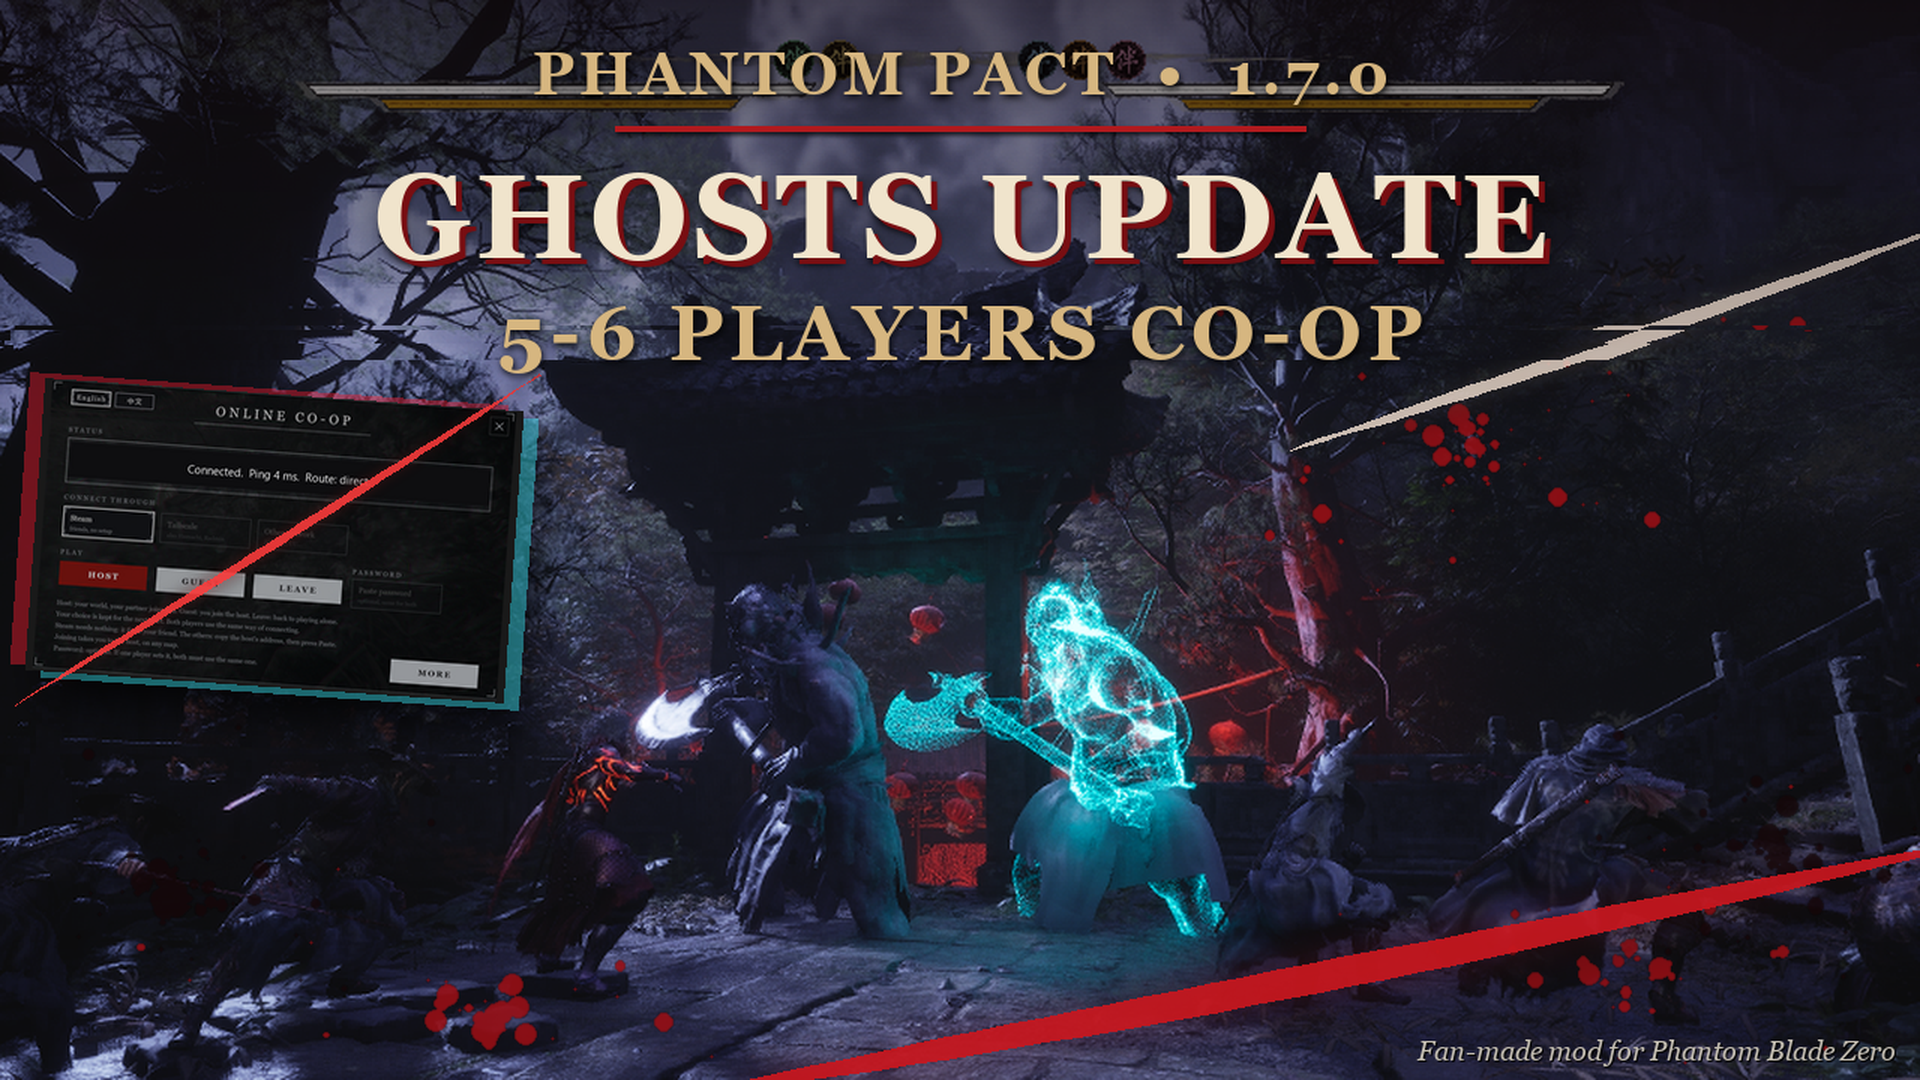
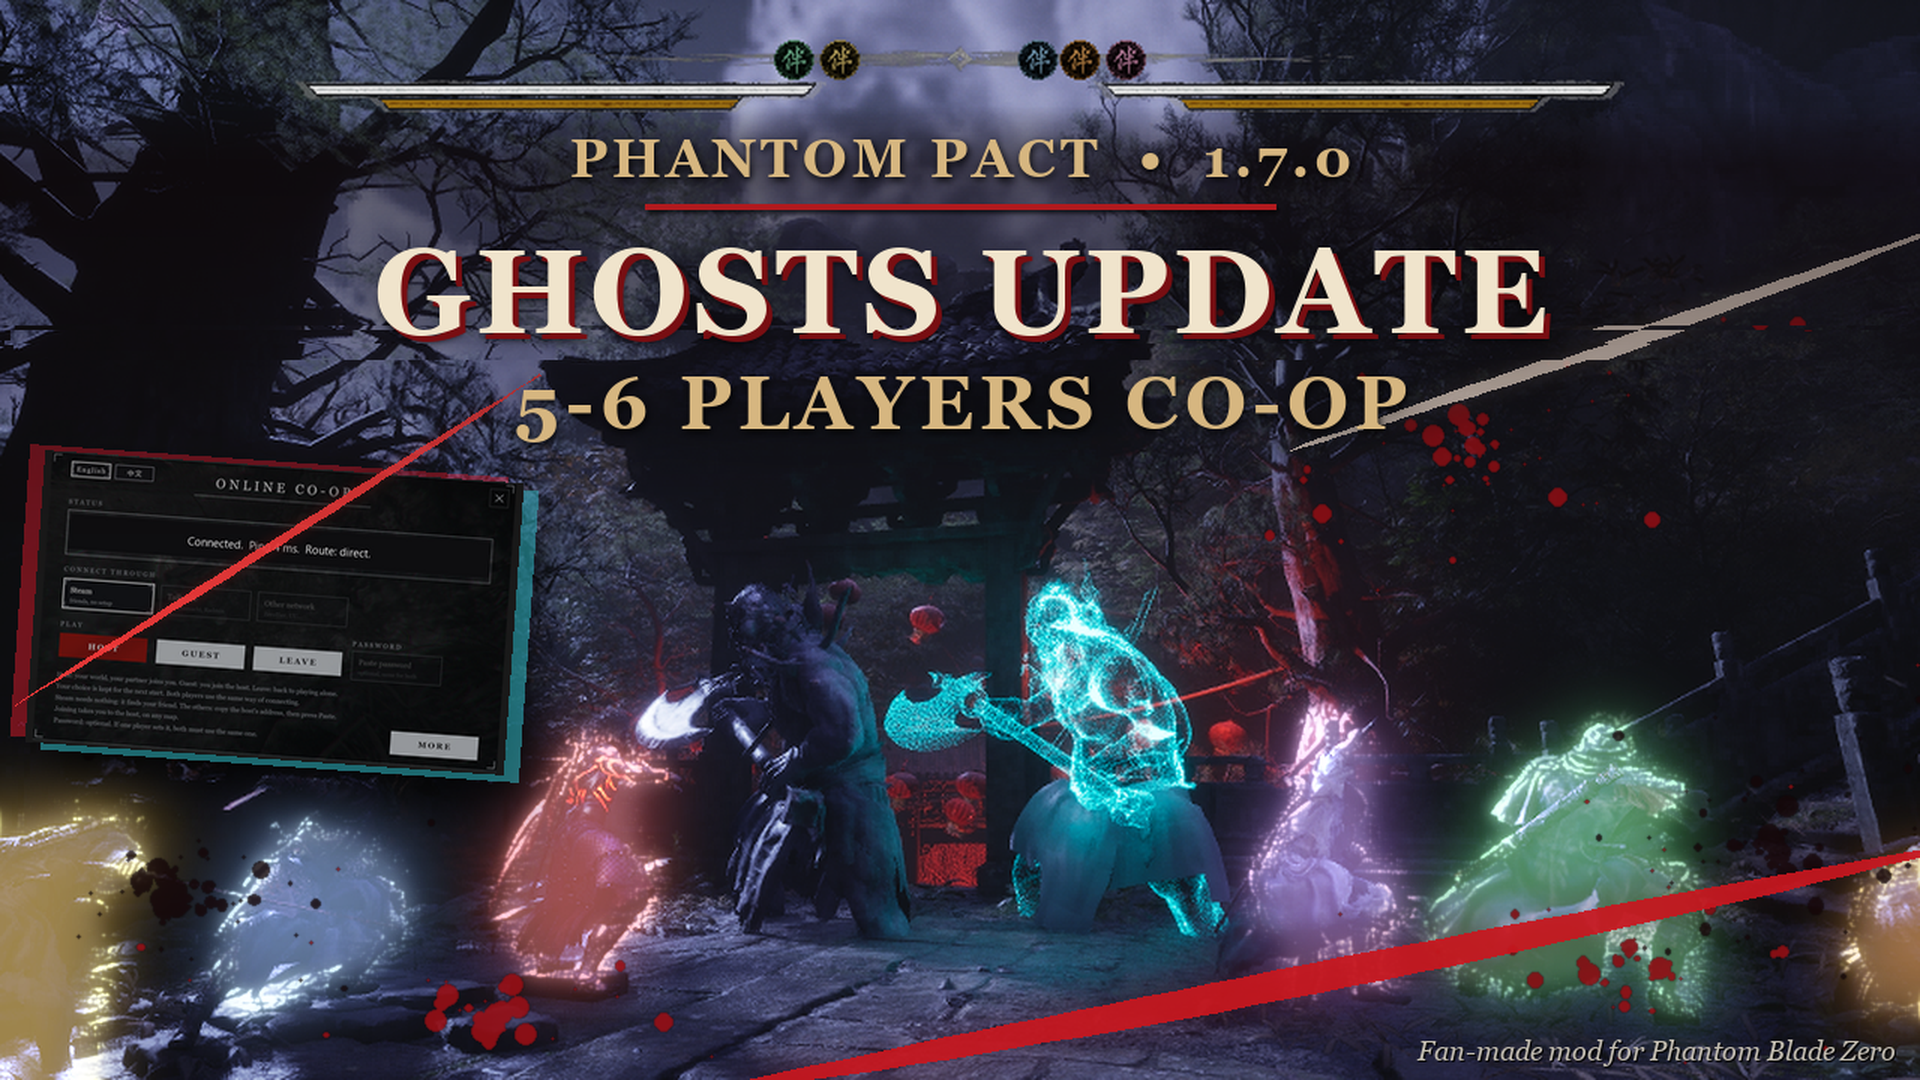
1.7.0 thumbnail: the six players lit in their own colours, the lettering moved below the boss bars
Each player is traced by hand on the shot, lifted out of the dark and given a soft aura and a rim light along
their real edges (gold, blue, red, violet, green, orange). The title block sits lower so the game's two boss
bars and their five marks show; the panel moved down to match.

diff --git a/art/make_ghosts_thumb.py b/art/make_ghosts_thumb.py
@@ -82,11 +82,61 @@ def glitch_bands(img, rng, count, keep=()):
         out.paste(band, (dx, y))
     return out
 
+# The six players, traced by hand on the 960x540 shot (left to right). Each gets its own colour: a soft halo just
+# outside the outline and its body lifted out of the dark (the user: "the players to be more clear").
+PLAYERS = [
+    ((255, 196, 70), [(0, 410), (25, 405), (45, 400), (65, 405), (75, 418), (78, 433), (60, 440), (50, 455), (55, 480),
+                      (50, 510), (45, 540), (0, 540)]),
+    ((120, 170, 255), [(112, 455), (122, 440), (130, 422), (145, 410), (160, 410), (180, 418), (200, 430), (208, 450),
+                       (200, 470), (185, 485), (165, 492), (140, 500), (120, 505), (108, 485)]),
+    ((255, 80, 70), [(288, 370), (300, 368), (312, 378), (330, 382), (332, 392), (318, 400), (320, 420), (330, 440),
+                     (320, 460), (305, 470), (300, 490), (270, 490), (255, 470), (248, 450), (258, 420), (272, 395),
+                     (282, 380)]),
+    ((190, 120, 255), [(655, 358), (670, 356), (675, 368), (690, 372), (686, 395), (685, 420), (700, 440), (705, 455),
+                       (690, 465), (700, 490), (680, 495), (665, 470), (655, 500), (645, 500), (640, 470), (625, 465),
+                       (628, 430), (640, 410), (650, 390), (652, 370)]),
+    ((90, 230, 120), [(795, 362), (812, 364), (815, 378), (840, 390), (840, 405), (830, 420), (845, 440), (850, 470),
+                      (848, 505), (830, 505), (820, 470), (805, 470), (800, 490), (760, 495), (730, 490), (715, 470),
+                      (718, 450), (735, 435), (750, 420), (748, 400), (760, 385), (790, 380)]),
+    ((255, 150, 50), [(930, 445), (945, 436), (960, 430), (960, 505), (935, 505), (925, 480)]),
+]
+
+
+def light_players(img):
+    W, H = img.size
+    k = W / 960
+    for color, poly in PLAYERS:
+        pts = [(x * k, y * k) for x, y in poly]
+        m = Image.new("L", (W, H), 0)
+        ImageDraw.Draw(m).polygon(pts, fill=255)
+        inner = m.filter(ImageFilter.MinFilter(5)).filter(ImageFilter.GaussianBlur(6))
+        # Lift the body out of the dark (their own outfit still showing), with a faint touch of the colour.
+        rgb = img.convert("RGB")
+        lift = rgb.point(lambda v: min(255, int(18 + v * 1.7)))
+        lift = ImageChops.screen(lift, Image.new("RGB", (W, H), tuple(int(c * 0.10) for c in color))).convert("RGBA")
+        img = Image.composite(lift, img, inner)
+        # A soft aura in the player's colour, and a rim light along the real edges of their armour and cloak
+        # near the outline (the trace is by hand: a line along it would show its corners).
+        aura = m.filter(ImageFilter.MaxFilter(9)).filter(ImageFilter.GaussianBlur(22)).point(lambda v: int(v * 0.5))
+        img = Image.composite(ImageChops.screen(img.convert("RGB"), Image.new("RGB", (W, H), color)).convert("RGBA"),
+                              img, aura)
+        band = ImageChops.subtract(m.filter(ImageFilter.MaxFilter(7)), m.filter(ImageFilter.MinFilter(21)))
+        band = band.filter(ImageFilter.GaussianBlur(3))
+        edges = rgb.convert("L").filter(ImageFilter.GaussianBlur(0.8)).filter(ImageFilter.FIND_EDGES)
+        edges = edges.point(lambda v: min(255, max(0, (v - 6) * 9)))
+        rim = ImageChops.multiply(edges, band)
+        for blur, alpha in ((5, 0.8), (0.8, 1.0)):
+            g = rim.filter(ImageFilter.GaussianBlur(blur)).point(lambda v, a=alpha: min(255, int(v * a * 2.2)))
+            glow = Image.new("RGB", (W, H), tuple(min(255, c + 60) for c in color))
+            img = Image.composite(ImageChops.screen(img.convert("RGB"), glow).convert("RGBA"), img, g)
+    return img
+
 
 def make_thumb(src):
     W, H = 1280, 720
     rng = random.Random(170)
     img = src.convert("RGBA").resize((W, H), Image.LANCZOS)
+    img = light_players(img)
     # Ink and blood behind everything else.
     img = Image.alpha_composite(img, splatter((W, H), rng, 70, (20, 6, 8, 210), [(120, 600), (1180, 560)]))
     img = Image.alpha_composite(img, splatter((W, H), rng, 50, (150, 14, 20, 230), [(330, 680), (1080, 640), (980, 300)]))
@@ -100,7 +150,7 @@ def make_thumb(src):
     # (Up in the trees on the left, small: lower down it hid the heroes on the left, and all six are the point.)
     p = p.resize((int(p.width * 0.5), int(p.height * 0.5)), Image.LANCZOS)
     rot = p.rotate(-4, expand=True, resample=Image.BICUBIC)
-    px, py = 16, 252
+    px, py = 16, 300
     shadow = Image.new("RGBA", (W, H), (0, 0, 0, 0))
     shadow.paste((0, 0, 0, 200), (px + 14, py + 18), rot.getchannel("A"))
     img = Image.alpha_composite(img, shadow.filter(ImageFilter.GaussianBlur(14)))
@@ -115,20 +165,23 @@ def make_thumb(src):
     # (Clear of the panel's heading and its HOST / GUEST / LEAVE row, and of the heroes and bosses below.)
     img = glitch_bands(img, rng, 9, keep=((240, 720),))
     # A soft darkening at the top, so the lettering reads on the bright fog.
+    # (Not over the game's two boss bars and their five marks at the very top: the user wants those seen.)
     shade = Image.new("L", (1, H))
     for y in range(H):
-        shade.putpixel((0, y), int(150 * max(0.0, 1 - y / (H * 0.45)) ** 1.5))
+        f = 0.0 if y < 70 else min(1.0, (y - 70) / 40) * max(0.0, 1 - (y - 110) / (H * 0.42)) ** 1.3
+        shade.putpixel((0, y), int(140 * min(1.0, f)))
     dark = Image.new("RGBA", (W, H), (14, 6, 8, 255))
     dark.putalpha(shade.resize((W, H)))
     img = Image.alpha_composite(img, dark)
     cx = W / 2
     items = [
-        (cx, 26, "PHANTOM PACT  •  1.7.0", font(BOLD, 40), 3, "gold"),
-        (cx, 98, "GHOSTS UPDATE", font(BOLD, 80), 3, "hero"),
-        (cx, 192, "5-6 PLAYERS CO-OP", font(BOLD, 52), 4, "gold"),
+        # (Below the boss bars, which end about y 72.)
+        (cx, 84, "PHANTOM PACT  •  1.7.0", font(BOLD, 36), 3, "gold"),
+        (cx, 148, "GHOSTS UPDATE", font(BOLD, 80), 3, "hero"),
+        (cx, 240, "5-6 PLAYERS CO-OP", font(BOLD, 50), 4, "gold"),
     ]
     img = Image.alpha_composite(img, card_text((W, H), items))
-    img = red_rule(img, cx - 230, cx + 230, 84, 3)
+    img = red_rule(img, cx - 210, cx + 210, 136, 3)
     credit_line(img, "Fan-made mod for Phantom Blade Zero", 18, (W - 16, H - 30), align="right")
     return img.convert("RGB")
 
